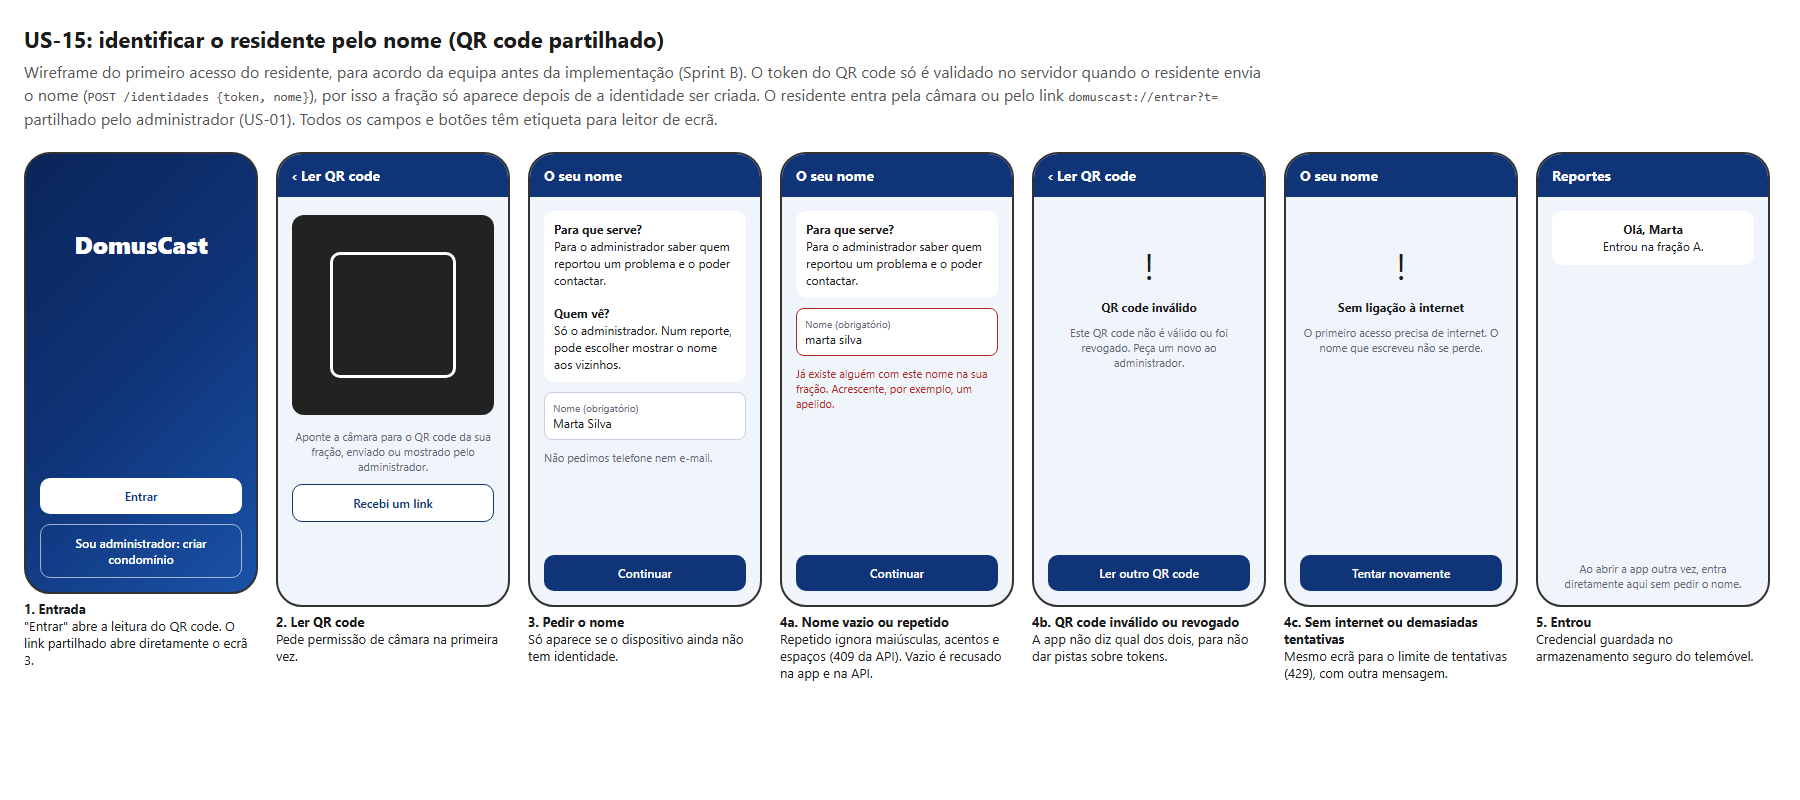
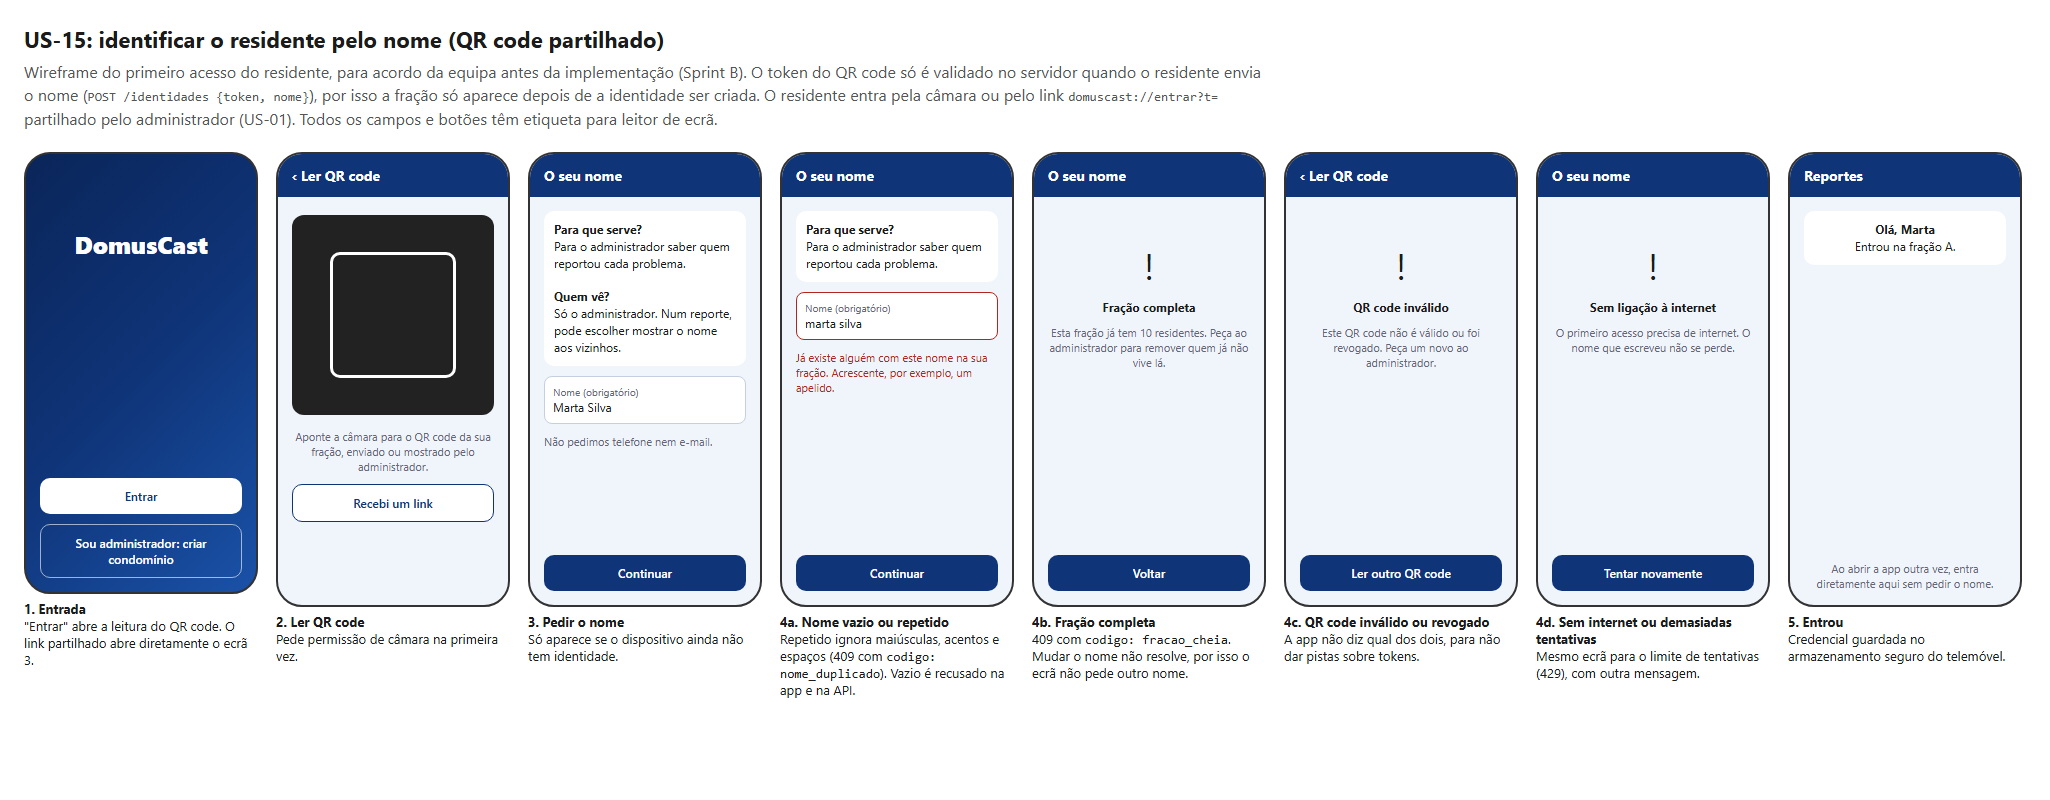
[#98, #79, #84] - Corrige a revisão: 409 distintos, limite por QR code, finalidade do nome e campos extra

diff --git a/docs/sprintB/design/us-15.html b/docs/sprintB/design/us-15.html
@@ -63,7 +63,7 @@
     <div class="phone">
       <div class="bar">O seu nome</div>
       <div class="body">
-        <div class="info"><b>Para que serve?</b><br>Para o administrador saber quem reportou um problema e o poder contactar.<br><br><b>Quem vê?</b><br>Só o administrador. Num reporte, pode escolher mostrar o nome aos vizinhos.</div>
+        <div class="info"><b>Para que serve?</b><br>Para o administrador saber quem reportou cada problema.<br><br><b>Quem vê?</b><br>Só o administrador. Num reporte, pode escolher mostrar o nome aos vizinhos.</div>
         <div class="field"><small>Nome (obrigatório)</small>Marta Silva</div>
         <div class="note">Não pedimos telefone nem e-mail.</div>
         <div style="margin-top:auto" class="btn">Continuar</div>
@@ -76,13 +76,26 @@
     <div class="phone">
       <div class="bar">O seu nome</div>
       <div class="body">
-        <div class="info"><b>Para que serve?</b><br>Para o administrador saber quem reportou um problema e o poder contactar.</div>
+        <div class="info"><b>Para que serve?</b><br>Para o administrador saber quem reportou cada problema.</div>
         <div class="field err"><small>Nome (obrigatório)</small>marta silva</div>
         <div class="errtxt">Já existe alguém com este nome na sua fração. Acrescente, por exemplo, um apelido.</div>
         <div style="margin-top:auto" class="btn">Continuar</div>
       </div>
     </div>
-    <div class="cap"><b>4a. Nome vazio ou repetido</b>Repetido ignora maiúsculas, acentos e espaços (409 da API). Vazio é recusado na app e na API.</div>
+    <div class="cap"><b>4a. Nome vazio ou repetido</b>Repetido ignora maiúsculas, acentos e espaços (409 com <code>codigo: nome_duplicado</code>). Vazio é recusado na app e na API.</div>
+  </div>
+
+  <div>
+    <div class="phone">
+      <div class="bar">O seu nome</div>
+      <div class="body">
+        <div class="icon">!</div>
+        <div style="text-align:center"><b>Fração completa</b></div>
+        <div class="note" style="text-align:center">Esta fração já tem 10 residentes. Peça ao administrador para remover quem já não vive lá.</div>
+        <div style="margin-top:auto" class="btn">Voltar</div>
+      </div>
+    </div>
+    <div class="cap"><b>4b. Fração completa</b>409 com <code>codigo: fracao_cheia</code>. Mudar o nome não resolve, por isso o ecrã não pede outro nome.</div>
   </div>
 
   <div>
@@ -95,7 +108,7 @@
         <div style="margin-top:auto" class="btn">Ler outro QR code</div>
       </div>
     </div>
-    <div class="cap"><b>4b. QR code inválido ou revogado</b>A app não diz qual dos dois, para não dar pistas sobre tokens.</div>
+    <div class="cap"><b>4c. QR code inválido ou revogado</b>A app não diz qual dos dois, para não dar pistas sobre tokens.</div>
   </div>
 
   <div>
@@ -108,7 +121,7 @@
         <div style="margin-top:auto" class="btn">Tentar novamente</div>
       </div>
     </div>
-    <div class="cap"><b>4c. Sem internet ou demasiadas tentativas</b>Mesmo ecrã para o limite de tentativas (429), com outra mensagem.</div>
+    <div class="cap"><b>4d. Sem internet ou demasiadas tentativas</b>Mesmo ecrã para o limite de tentativas (429), com outra mensagem.</div>
   </div>
 
   <div>

diff --git a/docs/sprintB/design/us-20.html b/docs/sprintB/design/us-20.html
@@ -30,7 +30,7 @@
 </head>
 <body>
 <h1>US-20: revogar QR codes</h1>
-<p class="subtitle">Wireframe do administrador, no ecrã da fração da US-01, para acordo da equipa antes da implementação (Sprint B). A lista mostra só os QR codes ativos (<code>GET /fracoes/{id}/qr</code>), sem o token, que o servidor não guarda. Revogar pede confirmação, bloqueia novos acessos com esse QR code e não afeta as identidades já criadas. O residente que leia um QR code revogado vê o erro do ecrã 4b da <a href="us-15.html">US-15</a>.</p>
+<p class="subtitle">Wireframe do administrador, no ecrã da fração da US-01, para acordo da equipa antes da implementação (Sprint B). A lista mostra só os QR codes ativos (<code>GET /fracoes/{id}/qr</code>), sem o token, que o servidor não guarda. Revogar pede confirmação, bloqueia novos acessos com esse QR code e não afeta as identidades já criadas. O residente que leia um QR code revogado vê o erro do ecrã 4c da <a href="us-15.html">US-15</a>.</p>
 
 <div class="flow">
   <div>

diff --git a/docs/sprintB/design/us-09.html b/docs/sprintB/design/us-09.html
@@ -94,7 +94,7 @@
         <div class="card"><b>Luz da escada fundida</b><span class="note">Marta Silva, fração C - ontem</span> <span class="tag">nome visível</span><br><span class="pill">Aberto</span></div>
       </div>
     </div>
-    <div class="cap"><b>5. Administrador</b>Vê sempre o nome e a fração, para poder contactar e priorizar. Nunca vê telefone nem e-mail, porque não existem.</div>
+    <div class="cap"><b>5. Administrador</b>Vê sempre o nome e a fração, para saber quem reportou e priorizar. Nunca vê telefone nem e-mail, porque não existem.</div>
   </div>
 </div>
 </body>

diff --git a/docs/sprintB/backlog.md b/docs/sprintB/backlog.md
@@ -13,12 +13,12 @@ Depois de ID, Resumo, SP e Prioridade, as colunas seguem, pela mesma ordem e com
 | ID | Resumo | SP | Prioridade | Valor e âmbito claros | Percurso completo (frontend, API, persistência) | Comportamento definido | Desenho da interface (ou N/A) | Contrato técnico conhecido | Dependências tratadas | Validação planeada | DoR cumprida |
 |---|---|---|---|---|---|---|---|---|---|---|---|
 | US-01 | Criar condomínio + QR code | 2 | Must | O administrador cria o condomínio (nome, nº de frações) e fica como primeiro administrador; vê as frações e gera, a pedido, o QR code de cada uma para enviar ou mostrar. Fora: leitura do QR e identidade do residente (US-15), revogação (US-20), outros administradores (US-19) | Entrada -> formulário -> `POST /condominios` -> `condominio`, `fracao`, `administrador`; lista -> `GET /condominios/{id}/fracoes`; ecrã da fração -> `POST /fracoes/{id}/qr` -> `qr_token` (só o hash); credencial no armazenamento seguro do telemóvel | 4 critérios em [US-01](../backlog.md#1-product-backlog); limites: 1 a 200 frações, 5 criações por hora por IP; erros 401, 403, 404, 422 e 429 definidos; os QR codes anteriores continuam válidos ([decisões](us-01.md#decisões-tomadas-na-implementação)) | [Wireframe](design/us-01.html) ([PNG](design/us-01.png)) | `POST /condominios`, `GET /condominios/{id}/fracoes`, `POST /fracoes/{id}/qr` ([8.4](../sprintA/sprintA.md#84-api-esboço)); tabelas `condominio`, `fracao`, `administrador`, `qr_token` já na migração `0002` ([8.3](../sprintA/sprintA.md#83-modelo-de-dados)) | Nenhuma; é pré-requisito de US-15, US-20 e US-23 | Testes pytest (23) e de widget (11) por critério, mais screenshots no emulador ([evidências](us-01.md)). Sucesso: condomínio criado, QR único que aponta para a fração. Falha: 422 fora dos limites, 429 no 6.º pedido, 401/403 sem acesso | Sim (2026-11-16) |
-| US-15 | Identificar residente pelo nome (QR code partilhado) | 2 | Must | No primeiro acesso a app pede só o nome; a identidade fica no dispositivo | Scan do QR -> ecrã de nome -> `POST /identidades` -> `identidade` | 5 critérios em [US-15](../backlog.md#1-product-backlog) | [Wireframe](design/us-15.html) ([PNG](design/us-15.png)) | `POST /identidades {token, nome}` devolve a credencial do dispositivo ([8.4](../sprintA/sprintA.md#84-api-esboço)); grava `identidade` com a nova coluna `qr_token_id` ([8.3](../sprintA/sprintA.md#83-modelo-de-dados)); 422 nome vazio, 404 token inválido ou revogado (mesma resposta, [TM-01](../sprintA/sprintA.md#106-modelo-de-ameaças-inicial)), 409 nome duplicado na fração ou fração com 10 identidades ativas, 429 acima de 10 tentativas por hora por IP ([10.5](../sprintA/sprintA.md#105-qr-code-revogação-e-abuso)) | US-01 (QR codes, concluída); US-02 e US-03 mostram o autor | Testes pytest por critério e de widget por ecrã do wireframe, mais screenshots no emulador. Sucesso: identidade criada; dois residentes da mesma fração com o mesmo QR; o mesmo nome noutra fração é aceite; reabrir a app não pede o nome. Falha: 422 nome vazio, 409 nome repetido (maiúsculas, acentos, espaços) e 11.ª identidade, 404 token inválido e revogado, 429 na 11.ª tentativa, mensagem sem internet | Sim (2026-11-16) |
+| US-15 | Identificar residente pelo nome (QR code partilhado) | 2 | Must | No primeiro acesso a app pede só o nome; a identidade fica no dispositivo | Scan do QR -> ecrã de nome -> `POST /identidades` -> `identidade` | 5 critérios em [US-15](../backlog.md#1-product-backlog) | [Wireframe](design/us-15.html) ([PNG](design/us-15.png)) | `POST /identidades {token, nome}` devolve a credencial do dispositivo ([8.4](../sprintA/sprintA.md#84-api-esboço)); grava `identidade` com a nova coluna `qr_token_id` ([8.3](../sprintA/sprintA.md#83-modelo-de-dados)); 422 nome vazio, 404 token inválido ou revogado (mesma resposta, [TM-01](../sprintA/sprintA.md#106-modelo-de-ameaças-inicial)), 409 com `codigo` `nome_duplicado` (nome repetido na fração) ou `fracao_cheia` (10 identidades ativas), 429 acima de 30 tentativas por hora no mesmo QR code ou de 20 tentativas com token inválido por hora no mesmo IP ([10.5](../sprintA/sprintA.md#105-qr-code-revogação-e-abuso)) | US-01 (QR codes, concluída); US-02 e US-03 mostram o autor | Testes pytest por critério e de widget por ecrã do wireframe, mais screenshots no emulador. Sucesso: identidade criada; dois residentes da mesma fração com o mesmo QR; o mesmo nome noutra fração é aceite; reabrir a app não pede o nome. Falha: 422 nome vazio, 409 `nome_duplicado` (maiúsculas, acentos, espaços), 409 `fracao_cheia` na 11.ª identidade com a mensagem própria, 404 token inválido e revogado, 429 na 31.ª tentativa no mesmo QR code e na 21.ª com token inválido no mesmo IP, 11 vizinhos no mesmo IP com QR codes válidos não recebem 429, mensagem sem internet | Sim (2026-11-16) |
 | US-02 | Reportar avaria | 2 | Must | O residente reporta com descrição e foto opcional; fora: categoria e localização ([RF-01](../requisitos.md)) | Formulário -> `POST /reportes` (multipart, `Idempotency-Key`) -> `reporte` | 5 critérios em [US-02](../backlog.md#1-product-backlog): formulário, visibilidade, autor, estado "Aberto", sem duplicados no reenvio | [Wireframe](design/us-02.html) ([PNG](design/us-02.png)), com a opção da US-09 | `POST /reportes` multipart: `descricao` (1 a 2000 caracteres), foto opcional (uma, JPEG ou PNG, até 5 MB, sem EXIF) com `foto_alt` obrigatório, `mostrar_nome`; cabeçalho `Idempotency-Key` único por autor ([8.4](../sprintA/sprintA.md#84-api-esboço)); 201 criado, 200 com o mesmo reporte num reenvio, 401 sem credencial, 403 administrador ([10.2](../sprintA/sprintA.md#102-controlo-de-acessos)), 422 dados inválidos | Identidade do autor (US-15), sequenciada no mesmo sprint, não bloqueante | Testes pytest por critério e de widget por ecrã do wireframe, mais screenshots no emulador. Sucesso: reporte "Aberto" com o residente como autor; com e sem foto. Falha: 422 descrição vazia, foto sem `foto_alt`, foto acima de 5 MB ou noutro formato; reenvio com a mesma chave não duplica; 401 e 403 | Sim (2026-11-16) |
 | US-03 | Consultar reportes (residente e administrador) | 2 | Must | Residente e administrador consultam a mesma lista, com filtros e campos conforme o papel (residente: "Os meus reportes"; administrador: autor e fração) | Ecrã de lista -> `GET /reportes`, `GET /reportes/{id}` -> `reporte`, `reporte_historico` | 5 critérios em [US-03](../backlog.md#1-product-backlog) | [Wireframe](design/us-03.html) ([PNG](design/us-03.png)) | `GET /reportes?filtro=todos\|meus&estado=`, `GET /reportes/{id}` ([8.4](../sprintA/sprintA.md#84-api-esboço)); sem paginação no MVP (prédios de 8 a 60 frações, reportes resolvidos apagados aos 24 meses), ordem pela última atualização; a app atualiza ao abrir, ao voltar à app, de 30 em 30 s com a lista aberta e ao puxar para baixo; 401 sem credencial, 404 reporte de outro condomínio; `a_seguir` fica para a US-17 | US-02 fornece os dados; mesmo sprint, não bloqueante | Testes pytest por papel e de widget por ecrã, mais screenshots. Sucesso: filtros por estado e "Os meus" (inclui co-reporter); o administrador vê autor e fração; detalhe com histórico. Falha: a resposta ao residente nunca inclui fração nem nome (salvo `mostrar_nome`); 404 para outro condomínio; estado vazio e erro de rede | Sim (2026-11-16) |
 | US-05 | Mudar estado + histórico | 2 | Must | O administrador muda o estado e acrescenta nota, com histórico auditável | Ecrã de detalhe -> `PATCH /reportes/{id}/estado` -> `reporte`, `reporte_historico` | 3 critérios em [US-05](../backlog.md#1-product-backlog) | TBD | `PATCH /reportes/{id}/estado`, `GET /reportes/{id}` ([8.4](../sprintA/sprintA.md#84-api-esboço)) | US-03, mesmo sprint, não bloqueante | Sucesso: cada mudança cria entrada no histórico. Falha: nenhuma rota apaga ou altera o histórico | `[A PREENCHER PELA EQUIPA: confirmar]` |
 | US-22 | Marcar reporte como duplicado | 2 | Must | O administrador fecha um duplicado ligado ao original; o autor passa a co-reporter | Ecrã de detalhe -> `POST /reportes/{id}/duplicado` -> `reporte`, `reporte_seguidor` | 3 critérios em [US-22](../backlog.md#1-product-backlog) | TBD | `POST /reportes/{id}/duplicado` ([8.4](../sprintA/sprintA.md#84-api-esboço)) | US-03 e US-05, mesmo sprint | Sucesso: duplicado fechado e ligado ao original; autor em "Os meus reportes" do original. Falha: residente recebe 403 | `[A PREENCHER PELA EQUIPA: confirmar]` |
-| US-09 | Privacidade do autor e dos contactos | 1 | Must | O autor decide se mostra o nome; só se guarda fração e nome | Regras de visibilidade na API; opção "mostrar o meu nome" no formulário | 4 critérios em [US-09](../backlog.md#1-product-backlog) | [Wireframe](design/us-09.html) ([PNG](design/us-09.png)) | `POST /reportes` (campo `mostrar_nome`, falso por omissão); regras de visibilidade em `GET /reportes` ([10.2](../sprintA/sprintA.md#102-controlo-de-acessos)); os pedidos recusam campos desconhecidos com 422, por isso nenhum contacto é aceite | US-15 (identidade), mesmo sprint | Testes pytest de esquema e de autorização. Sucesso: resposta ao residente sem nome nem fração, salvo `mostrar_nome`; o próprio vê "O meu reporte". Falha: 422 com `telefone` ou `email` no pedido; a tabela `identidade` não tem campos de contacto | Sim (2026-11-16) |
+| US-09 | Privacidade do autor e dos contactos | 1 | Must | O autor decide se mostra o nome; só se guarda fração e nome | Regras de visibilidade na API; opção "mostrar o meu nome" no formulário | 4 critérios em [US-09](../backlog.md#1-product-backlog) | [Wireframe](design/us-09.html) ([PNG](design/us-09.png)) | `POST /reportes` (campo `mostrar_nome`, falso por omissão); regras de visibilidade em `GET /reportes` ([10.2](../sprintA/sprintA.md#102-controlo-de-acessos)); os pedidos recusam campos desconhecidos com 422 (formulário multipart num modelo Pydantic com `extra="forbid"`, porque o FastAPI ignora por omissão campos `Form` a mais), por isso nenhum contacto é aceite | US-15 (identidade), mesmo sprint | Testes pytest de esquema e de autorização. Sucesso: resposta ao residente sem nome nem fração, salvo `mostrar_nome`; o próprio vê "O meu reporte". Falha: 422 com `telefone` ou `email` no pedido, enquanto um pedido com foto e só os campos previstos continua a dar 201 (com `extra="forbid"`, a foto também conta como campo do formulário); a tabela `identidade` não tem campos de contacto | Sim (2026-11-16) |
 | US-20 | Revogar QR codes | 1 | Must | O administrador revoga todos os QR codes ativos da fração ou um específico, sem afetar as identidades | Ecrã da fração -> `GET /fracoes/{id}/qr`, `POST /fracoes/{id}/qr/revogar`, `POST /qr/{id}/revogar` -> `qr_token` | 3 critérios em [US-20](../backlog.md#1-product-backlog) | [Wireframe](design/us-20.html) ([PNG](design/us-20.png)) | `GET /fracoes/{id}/qr` (ativos, sem token, com data de criação e nº de residentes), `POST /fracoes/{id}/qr/revogar` (200 com o nº revogado, 0 se não havia ativos), `POST /qr/{id}/revogar` ([8.4](../sprintA/sprintA.md#84-api-esboço)); 401 sem credencial, 403 residente, 404 QR code já revogado ou de outro condomínio | US-01 (concluída); o "nº de residentes" precisa de `identidade.qr_token_id` (US-15) | Testes pytest e de widget, mais screenshots. Sucesso: QR code revogado deixa de ser aceite e os outros continuam; as identidades mantêm-se. Falha: 404 em `POST /identidades` com o QR revogado; 404 ao revogar duas vezes; 403 residente | Sim (2026-11-16) |
 | US-23 | Remover identidade | 2 | Must | O administrador remove a identidade de quem saiu; os reportes passam a "Residente removido" | Ecrã da fração -> `GET /fracoes/{id}/identidades`, `DELETE /identidades/{id}` -> `identidade` | 3 critérios em [US-23](../backlog.md#1-product-backlog) | [Wireframe](design/us-23.html) ([PNG](design/us-23.png)) | `GET /fracoes/{id}/identidades` (novo: id, nome e data de entrada das identidades ativas) e `DELETE /identidades/{id}` ([8.4](../sprintA/sprintA.md#84-api-esboço)); remover apaga `nome` e `nome_normalizado`, preenche `removida_em` e a nova coluna `removida_por` (administrador) ([8.3](../sprintA/sprintA.md#83-modelo-de-dados)); 204 removida, 401 sem credencial, 403 residente, 404 já removida ou de outro condomínio; a credencial removida recebe 401 em qualquer pedido | US-15 (identidade), mesmo sprint; o envio recusado da fila local é a US-18 | Testes pytest e de widget, mais screenshots. Sucesso: nome apagado, `removida_por` preenchido, reportes como "Residente removido"; o mesmo nome volta a ser aceite na fração. Falha: telemóvel removido recebe 401 e a app mostra "O seu acesso foi removido"; 404 ao remover duas vezes; 403 residente | Sim (2026-11-17) |
 | US-13 | Agendar reunião | 1 | Should | O administrador agenda uma assembleia com data, hora e local | App -> `POST /reunioes` -> `reuniao` | 3 critérios em [US-13](../backlog.md#1-product-backlog) | TBD | `POST /reunioes`, `GET /reunioes` ([8.4](../sprintA/sprintA.md#84-api-esboço)); tabela `reuniao` | Nenhuma; é pré-requisito de US-10, US-28 e US-29 | Sucesso: reunião criada. Falha: residente recebe 403 | `[A PREENCHER PELA EQUIPA: confirmar]` |

diff --git a/docs/sprintB/refinamento.md b/docs/sprintB/refinamento.md
@@ -23,8 +23,9 @@ As decisões tomadas já durante a implementação (partilha por imagem e link, 
 [Wireframe](design/us-15.html) aprovado.
 
 - **Token inválido ou revogado:** a API responde 404 nos dois casos, para não revelar que tokens existiram (TM-01). Para o residente, a solução é a mesma: pedir um novo QR code ao administrador.
-- **Limite de tentativas:** 10 por hora por IP, acima dos 5 da US-01, porque os vizinhos partilham muitas vezes a rede Wi-Fi do prédio e podem enganar-se no nome.
-- **Máximo por fração:** 10 identidades ativas (proposta de 10.5); a 11.ª recebe 409.
+- **Limite de tentativas:** contado por QR code e não por IP, porque os vizinhos partilham o IP público do Wi-Fi do prédio (ou o CGNAT da operadora) e, no dia em que o administrador distribui os QR codes, um limite por IP bloquearia o resto do prédio. Cada QR code aceita 30 tentativas por hora, o que chega para os 10 residentes de uma fração com enganos no nome. Por IP só contam as tentativas com token inválido ou revogado (20 por hora): um vizinho com um QR code válido nunca as gasta, e quem tenta tokens ao acaso é travado. Corrigido após a revisão do PR; a primeira proposta era 10 tentativas por hora por IP.
+- **Máximo por fração:** 10 identidades ativas (proposta de 10.5). A 11.ª recebe 409 com `codigo: fracao_cheia`, distinto do `nome_duplicado`, para a app mostrar a mensagem certa: mudar o nome não resolve uma fração completa. Os erros seguem o formato `{codigo, mensagem, request_id}` de 8.4.
+- **Finalidade do nome:** o ecrã diz só "para o administrador saber quem reportou cada problema", que é a finalidade de 10.3. Não promete contacto, porque não se recolhe telefone nem e-mail (transparência, RGPD).
 
 ### US-02 e US-09: Reportar avaria e privacidade do autor
 
@@ -33,7 +34,7 @@ As decisões tomadas já durante a implementação (partilha por imagem e link, 
 - **Foto:** uma, JPEG ou PNG, até 5 MB; com foto, o texto alternativo é obrigatório (acessibilidade, RNF-02).
 - **Reenvio:** `Idempotency-Key` no cabeçalho, única por autor; um reenvio devolve 200 com o reporte já criado, sem criar outro.
 - **Permissões:** o administrador não cria reportes (403, [10.2](../sprintA/sprintA.md#102-controlo-de-acessos)).
-- **Privacidade:** a API recusa campos desconhecidos com 422, o que prova que nenhum contacto (telefone, e-mail) é aceite.
+- **Privacidade:** a API recusa campos desconhecidos com 422, o que prova que nenhum contacto (telefone, e-mail) é aceite. Como o pedido é multipart e o FastAPI ignora por omissão campos `Form` a mais, a implementação recebe o formulário num modelo Pydantic com `extra="forbid"` (`Annotated[Modelo, Form()]`). Corrigido após a revisão do PR.
 
 ### US-03: Consultar reportes
 
